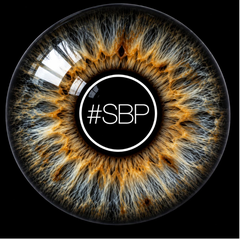
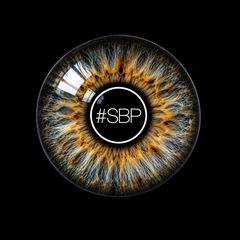
chore: SBP und Schub_red neu exportiert - Vorschaubilder nachgezogen
Die beiden Motive waren im Verhaeltnis zu A7 und A10 fast doppelt so gross:
gemessen an der Irisbreite im Quellbild 1,87x bzw. 1,99x. Die neuen Vorlagen
liegen bei 1,36x bzw. 1,46x - deutlich naeher an den eingebauten Augen.

Die C-Arrays der Firmware erzeugt tools/eye_assets.py daraus neu; beide bleiben
wegen ihrer gleichfoermigen schwarzen Kante geklemmt. Der Flash-Bedarf sinkt
nebenbei auf 367 KB (SBP 24,5 statt 40 KB, Schub_red 33,6 statt 57 KB) - weniger
Flaeche mit feiner Struktur komprimiert besser.

Hier in der App aendern sich nur die beiden Vorschaubilder im Augen-Raster.
Stuenden sie auf dem alten Stand, zeigte das Raster ein anderes Auge als das
Geraet.

diff --git a/lib/app_version.dart b/lib/app_version.dart
@@ -10,4 +10,4 @@
 /// wurde dadurch zeitweise ein Stand von vorgestern, ohne dass es jemand sehen
 /// konnte. Der Service Worker ist abgeschaltet - und hier steht, woran man es
 /// erkennt.
-const String kAppVersion = '3.15.1+49';
+const String kAppVersion = '3.15.2+50';
